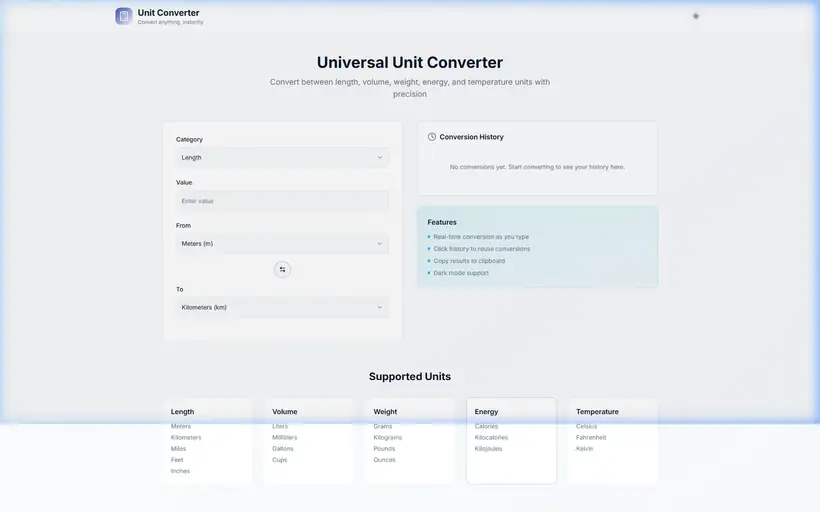
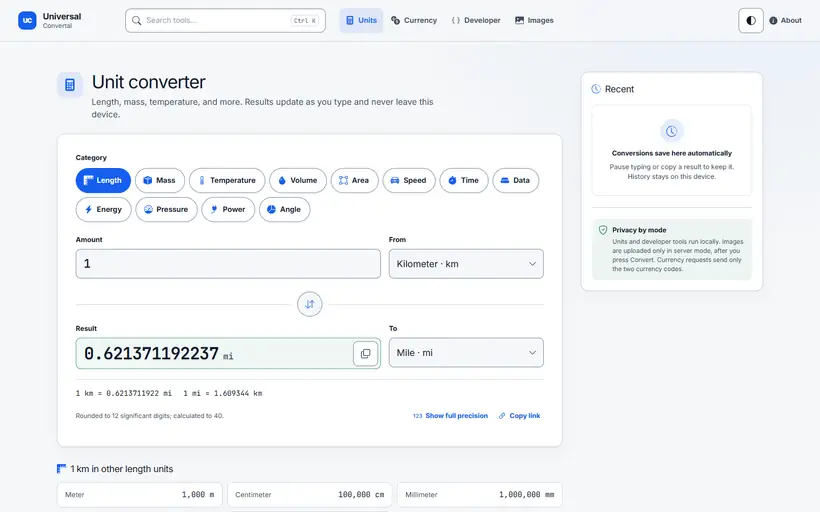
feat: showcase Universal Convertal as fifth portfolio project

diff --git a/src/i18n/index.ts b/src/i18n/index.ts
@@ -211,7 +211,7 @@ export const translations = {
       body: "Products, websites, and tools built from Gafsa.",
       featuredEyebrow: "Selected projects",
       featuredTitle: "A closer look.",
-      featuredBody: "Four projects, end to end.",
+      featuredBody: "Five projects, end to end.",
       archiveEyebrow: "More projects",
       archiveTitle: "The directory",
       archiveBody: "More products, tools, and experiments.",
@@ -463,7 +463,7 @@ export const translations = {
       body: "Produits, sites et outils développés depuis Gafsa.",
       featuredEyebrow: "Projets sélectionnés",
       featuredTitle: "Un regard plus proche.",
-      featuredBody: "Quatre projets, de bout en bout.",
+      featuredBody: "Cinq projets, de bout en bout.",
       archiveEyebrow: "Autres projets",
       archiveTitle: "Le répertoire",
       archiveBody: "D'autres produits, outils et expériences.",
@@ -574,7 +574,12 @@ const frenchProjectCopy: Record<string, ProjectCopyOverrides> = {
   "property-investment": { category: "Plateforme d'investissement", summary: "Une landing page d'investissement conçue pour renforcer la confiance et les prises de contact.", roles: ["Design génération de leads", "Structure UI", "Parcours de conversion"] },
   "speed-typer-game": { category: "Jeu", summary: "Un jeu de frappe avec feedback en direct et interface orientée performance.", roles: ["UI de jeu", "Logique interactive", "Feedback de performance"] },
   "sspace-star-map": { category: "Application d'astronomie full-stack", summary: "Un explorateur astronomique full-stack avec un catalogue PostgreSQL, une API Elysia/Bun, un rendu du ciel avec Stellarium et un planificateur d'observation sur 24 heures.", roles: ["Développement full-stack", "Systèmes de données astronomiques", "Visualisation interactive"], contribution: "J'ai développé l'explorateur Next.js, l'API Elysia/Bun, le catalogue PostgreSQL et le planificateur d'observation autour d'un ciel Stellarium dans le navigateur." },
-  "unit-converter": { category: "Outil utilitaire", summary: "Un convertisseur d'unités en temps réel, simple et rapide à utiliser.", roles: ["UX utilitaire", "Design d'outil", "Développement JavaScript"] },
+  "unit-converter": {
+    category: "Outils de conversion full-stack",
+    summary: "Un atelier de conversion pour 73 unités, les taux de change de référence, les outils développeur et les images, avec des outils locaux et une API serveur aux limites explicites.",
+    roles: ["Design produit", "Développement full-stack", "Architecture API"],
+    contribution: "J'ai développé le monorepo Next.js et Fastify, la logique de conversion partagée et les limites d'upload et de traitement serveur.",
+  },
   "wallpaper-generator": { category: "Outil créatif", summary: "Un générateur de fonds d'écran ludique centré sur l'expérimentation visuelle.", roles: ["Creative coding", "Interface interactive", "Expérimentation front-end"] },
   "epic-chicken-adventure": { category: "Jeu", summary: "Une expérience de jeu navigateur allégée et remise en forme pour plus de finition.", roles: ["Présentation de jeu", "Développement Next.js", "UI responsive"] },
 };
@@ -585,6 +590,7 @@ const englishProjectContributions: Record<string, string> = {
   "assistant-ai": "I designed the three assistant modes and built the production boundaries around read-only queries, AI budgets, and synthetic data.",
   "webgrade-analyzer": "I designed a compact scanner flow, separated provider evidence, and built the Next.js API and report interface.",
   "sspace-star-map": "I built the Next.js explorer, Elysia/Bun API, PostgreSQL catalog, and observing planner around a browser-based Stellarium sky.",
+  "unit-converter": "I built the Next.js and Fastify monorepo, shared conversion logic, and limits for uploads and server processing.",
 };
 
 export function getProjectCopy(

diff --git a/src/data/site.ts b/src/data/site.ts
@@ -613,16 +613,32 @@ export const projects: Project[] = [
   }),
   buildProject({
     slug: "unit-converter",
-    title: "Universal Unit Converter",
-    year: "2024",
-    category: "Utility Tool",
+    title: "Universal Convertal",
+    year: "2026",
+    category: "Full-stack conversion tools",
     summary:
-      "A real-time unit converter with a simpler, faster utility-first interface.",
-    heroImage: "/images/projects/unit-converter-full.png",
-    roles: ["Utility UX", "Tool design", "JavaScript development"],
-    stack: ["JavaScript", "Utility UI", "Real-time calc"],
-    externalLink: "https://unit-converter-sq3u.vercel.app/",
-    quote: "Utility products feel premium when speed and simplicity are obvious from the first interaction.",
+      "A conversion workbench for 73 units, reference currency rates, developer tools, and images, with browser-local tools and a bounded server API.",
+    heroImage: "/images/projects/convertal-units.png",
+    gallery: [
+      "/images/projects/convertal-units.png",
+      "/images/projects/convertal-developer.png",
+      "/images/projects/convertal-images.png",
+      "/images/projects/convertal-currency.png",
+      "/images/projects/convertal-mobile.png",
+    ],
+    roles: ["Product design", "Full-stack development", "API architecture"],
+    stack: ["Next.js", "Fastify", "TypeScript", "Sharp", "Turborepo", "Docker"],
+    featured: true,
+    externalLink: "https://units.chames.tn/",
+    intro:
+      "Universal Convertal brings unit, currency, developer, and image tools into one responsive workbench.",
+    problem:
+      "Each tool needed a clear conversion flow while keeping browser-local work private and server processing bounded.",
+    creativeApproach:
+      "I built a Next.js and Fastify monorepo with shared conversion logic, explicit processing modes, provider adapters, and upload and resource limits.",
+    outcome:
+      "The deployed app combines precise unit conversions, reference exchange rates, local developer transformations, and image conversion without durable uploads.",
+    quote: "A useful conversion tool makes its results, processing mode, and limits clear.",
   }),
   buildProject({
     slug: "wallpaper-generator",

diff --git a/src/data/generatedImages.ts b/src/data/generatedImages.ts
@@ -380,13 +380,33 @@ export const projectImages: Record<string, GeneratedProjectImages> = {
     "hero": {
       "src": "/generated-images/unit-converter/hero.webp",
       "width": 1440,
-      "height": 1000
+      "height": 1122
     },
     "gallery": [
       {
-        "src": "/generated-images/unit-converter/gallery-1-unit-converter-full.webp",
+        "src": "/generated-images/unit-converter/gallery-1-convertal-units.webp",
         "width": 1440,
-        "height": 1000
+        "height": 1122
+      },
+      {
+        "src": "/generated-images/unit-converter/gallery-2-convertal-developer.webp",
+        "width": 960,
+        "height": 647
+      },
+      {
+        "src": "/generated-images/unit-converter/gallery-3-convertal-images.webp",
+        "width": 960,
+        "height": 891
+      },
+      {
+        "src": "/generated-images/unit-converter/gallery-4-convertal-currency.webp",
+        "width": 960,
+        "height": 640
+      },
+      {
+        "src": "/generated-images/unit-converter/gallery-5-convertal-mobile.webp",
+        "width": 390,
+        "height": 2052
       }
     ]
   },

diff --git a/src/styles/global.css b/src/styles/global.css
@@ -3840,8 +3840,12 @@ a {
   }
 
   .home-portrait {
-    width: min(100%, 20rem);
+    width: min(calc(100% - 2.5rem), 20rem);
     justify-self: center;
+  }
+
+  .reveal-ready .home-portrait[data-reveal="fade-right"]:not(.revealed) {
+    transform: translateY(24px);
   }
 
   .site-header-nav {

diff --git a/docs/convertal-portfolio-update.md b/docs/convertal-portfolio-update.md
@@ -1,0 +1,37 @@
+# Convertal portfolio update
+
+Date: 2026-10-05.
+
+Universal Convertal replaces the old Unit Converter entry while retaining its `unit-converter` identifier. It is fifth on the English/French homepage and fifth in the English/French work page's featured list. The other projects retain their relative order. The project links to https://units.chames.tn/.
+
+## Real screenshots
+
+Captured from the public HTTPS application in Chrome on Windows, with light color scheme, reduced motion, and a clean browser session. Desktop captures use a 1440×960 CSS viewport and full-page screenshots; mobile uses 390×844. Source files are in `public/images/projects/`:
+
+| File | Screen |
+| --- | --- |
+| `convertal-units.png` | Live kilometer-to-mile conversion |
+| `convertal-developer.png` | Browser-local JSON formatting with sample project data |
+| `convertal-images.png` | Successful PNG-to-WebP server conversion of the public units screenshot |
+| `convertal-currency.png` | Provider reference quote with visible source and timestamp |
+| `convertal-mobile.png` | Full mobile unit workbench |
+
+The currency quote is a screenshot of reference data at capture time. It is not a promised current exchange rate. No personal file was uploaded for the image demonstration.
+
+`scripts/generate-image-derivatives.cjs` produces the card, hero, and gallery WebP derivatives and `src/data/generatedImages.ts`. The existing homepage/work layouts display the units screenshot as the project preview; the additional captures are available in the project's media data. The public source PNGs are not used as the card downloads.
+
+## Responsive correction
+
+The production homepage already overflowed horizontally by 20px at 320px because the portrait's decorative frame extended beyond its available space. The mobile portrait now reserves space for the frame, and its staged reveal uses vertical movement. This also prevents the French portrait's offscreen reveal from causing horizontal overflow during normal-motion navigation. No global overflow-hiding rule was added.
+
+## Verification conditions
+
+Result: the production build passed, all 34 targeted browser cases passed, and the changed cards had no axe violations in the 16 route/width combinations. Machine-readable results are in [convertal-portfolio-qa.json](convertal-portfolio-qa.json). [The desktop card capture](convertal-portfolio-card.png) shows the fifth-position label and preview.
+
+Astro 6.4.5 production preview, Windows headless Chrome, Playwright 1.63.0, axe-core 4.13.0, locally installed Bun 1.4.2. The repository's declared package manager remains Bun 1.3.6. No dependencies or VPS deployment configuration were changed.
+
+The browser checks cover `/`, `/fr`, `/work`, and `/fr/work`, with 320, 390, 768, and 1440px widths, normal/reduced motion, disabled JavaScript, image loading and dimensions, fifth position and absence of duplicate entries, keyboard focus and activation, ClientRouter navigation, browser back/forward, and changed reduced-motion preference. Automated accessibility checks are scoped to the changed project card, not a complete site audit.
+
+The 200% zoom reflow check uses a 720×480 CSS viewport at device scale 2, equivalent to a 1440×960 physical viewport. Native browser zoom controls, screen-reader testing, field performance, and the VPS rebuild are not verified by this local browser run. The existing portfolio has no lint or full type-check script; the Astro build is not represented as either check.
+
+See [the README deployment commands](../README.md#production) for updating the existing VPS checkout.

diff --git a/README.md b/README.md
@@ -39,3 +39,20 @@ Then deploy on the VPS with:
 chmod +x deploy.sh
 ./deploy.sh
 ```
+
+To update the existing VPS deployment, run these commands from its portfolio checkout:
+
+```bash
+git switch New_Design
+git pull --ff-only origin New_Design
+bash deploy.sh
+curl -fsS https://chames.tn/health
+```
+
+If you need to find that checkout, inspect the existing containers' Compose labels:
+
+```bash
+docker inspect --format '{{ index .Config.Labels "com.docker.compose.project.working_dir" }}' portfolio-v1-blue portfolio-v1-green 2>/dev/null
+```
+
+Keep the server's existing `.env`. The deployment script builds the inactive blue/green service, waits for its health check, and then stops the previous service.
